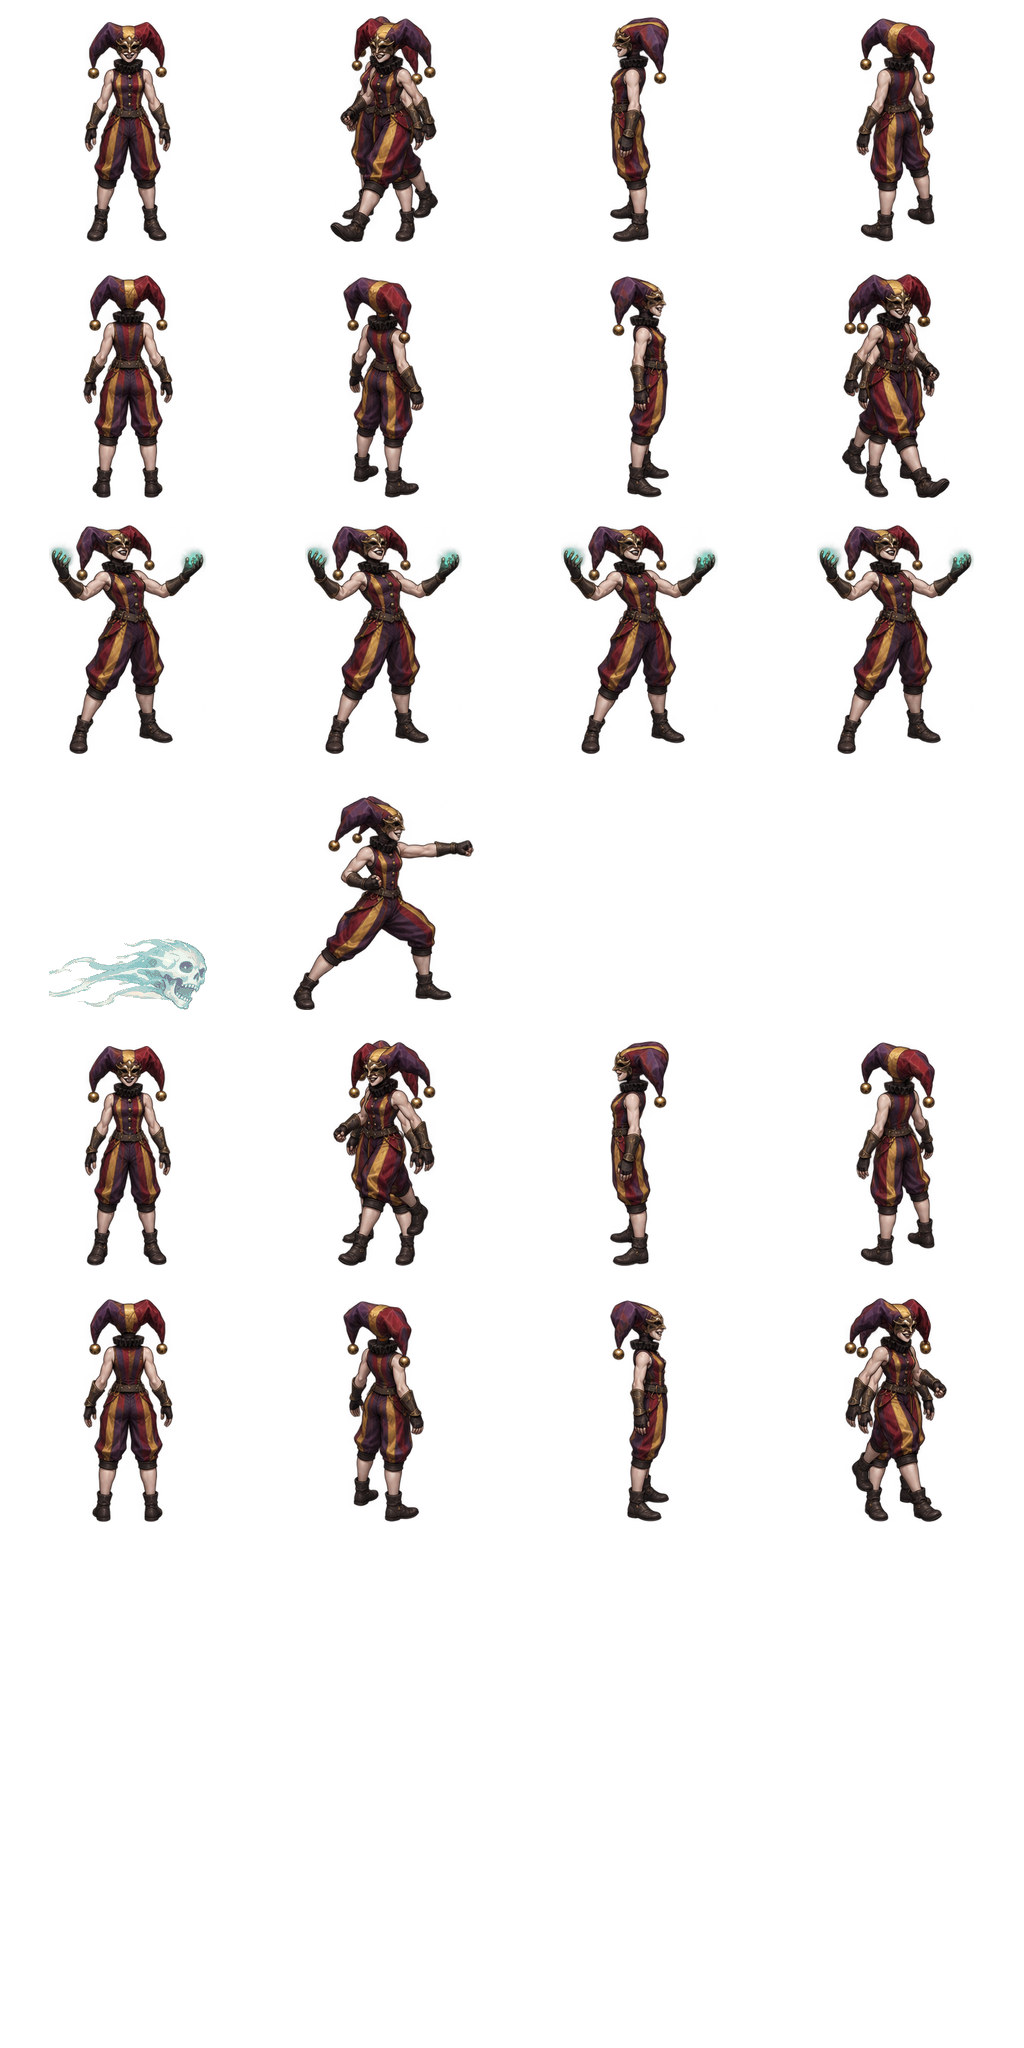
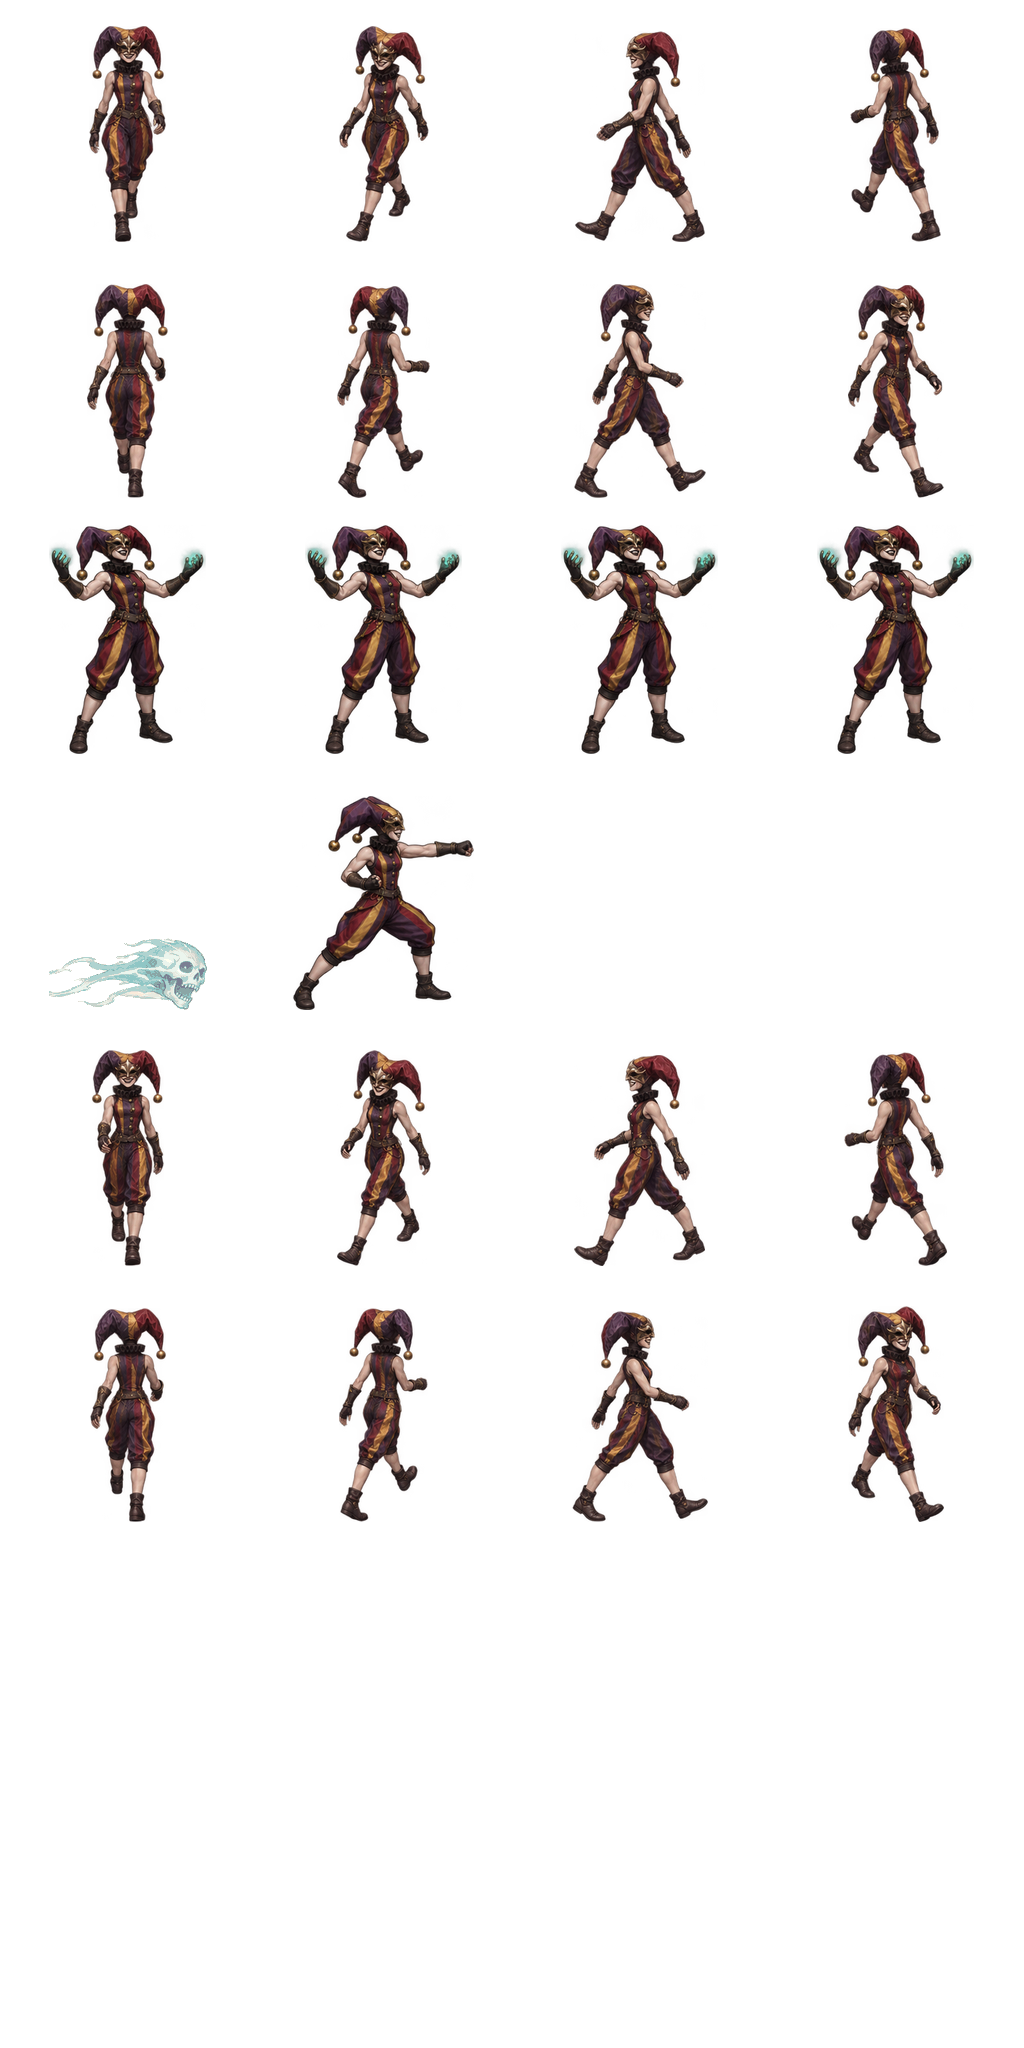
Fix overlapping Arlequina frames and animate walking in eight directions

diff --git a/tools/prepare_arlequina.py b/tools/prepare_arlequina.py
@@ -1,6 +1,6 @@
 """Repack the approved preview into Unity's 256px cell contract. Requires Pillow."""
 from pathlib import Path
-from PIL import Image, ImageOps
+from PIL import Image
 import uuid
 ROOT=Path(__file__).resolve().parents[1]
 source=Image.open(ROOT/'tools/arlequina-source.png').convert('RGBA')
@@ -21,14 +21,30 @@ for i in range(12):
 order=[0,7,6,5,4,3,2,1]
 idle=Image.new('RGBA',(1024,512))
 spectral=Image.new('RGBA',(1024,2048))
-def put(sheet,index,frame): sheet.alpha_composite(frame,(index%4*256,index//4*256))
+def put(sheet,index,frame):
+    # Replace ALL RGBA pixels, including transparency. Alpha-compositing a new
+    # pose onto an occupied cell leaves the previous legs/arms visible.
+    assert frame.size==(256,256)
+    sheet.paste(frame,(index%4*256,index//4*256))
 for direction,original in enumerate(order):
     put(idle,direction,frames[original])
     put(spectral,direction,frames[original])
     put(spectral,16+direction,frames[original])
-# Two approved diagonal walking poses; other directions use a subtle idle step.
-for index,frame in [(7,frames[8]),(23,frames[9]),(1,ImageOps.mirror(frames[8])),(17,ImageOps.mirror(frames[9]))]:
-    put(spectral,index,frame)
+# Two contact poses for every direction from the dedicated walking sheet.
+walk=Image.open(ROOT/'tools/arlequina-walk-source.png').convert('RGBA')
+for direction in range(8):
+    for phase in range(2):
+        i=direction*2+phase
+        x0,x1=round(i%4*walk.width/4),round((i%4+1)*walk.width/4)
+        y0,y1=round(i//4*walk.height/4),round((i//4+1)*walk.height/4)
+        cell=walk.crop((x0,y0,x1,y1))
+        bbox=cell.getchannel('A').point(lambda a:255 if a>24 else 0).getbbox()
+        assert bbox is not None
+        crop=cell.crop(bbox)
+        crop=crop.resize((round(crop.width*.70),round(crop.height*.70)),Image.Resampling.LANCZOS)
+        frame=Image.new('RGBA',(256,256))
+        frame.alpha_composite(crop,((256-crop.width)//2,242-crop.height))
+        put(spectral,direction+phase*16,frame)
 for i in range(8,12): put(spectral,i,frames[11])
 # Keep the existing projectile art/UV region independently of the character.
 legacy=Image.open(ROOT/'unity/Assets/Resources/Heroine/spectral.png').convert('RGBA')

diff --git a/tests/check_arlequina_atlas.py b/tests/check_arlequina_atlas.py
@@ -1,0 +1,26 @@
+"""Pixel regression checks for sprite replacement; run with Pillow installed."""
+import runpy
+from pathlib import Path
+from PIL import Image, ImageChops
+root=Path(__file__).resolve().parents[1]
+packer=runpy.run_path(str(root/'tools/prepare_arlequina.py'))
+# A new transparent pose must erase the old silhouette, not blend over it.
+atlas=Image.new('RGBA',(1024,512),(255,0,0,255))
+pose=Image.new('RGBA',(256,256))
+pose.putpixel((128,128),(0,255,0,255))
+packer['put'](atlas,5,pose)
+assert atlas.crop((256,256,512,512)).tobytes()==pose.tobytes()
+assert atlas.getpixel((0,0))==(255,0,0,255), 'Adjacent cell changed'
+folder=root/'unity/Assets/Resources/Characters/Arlequina'
+idle=Image.open(folder/'idle.png').convert('RGBA')
+walk=Image.open(folder/'spectral.png').convert('RGBA')
+def cell(sheet,i):
+ return sheet.crop((i%4*256,i//4*256,i%4*256+256,i//4*256+256))
+for direction in range(8):
+ a,b=cell(walk,direction),cell(walk,16+direction)
+ assert a.tobytes()!=b.tobytes(), ('identical strides',direction)
+ for frame in (a,b):
+  assert frame.tobytes()!=cell(idle,direction).tobytes(), ('idle used as contact',direction)
+  box=frame.getchannel('A').point(lambda v:255 if v>24 else 0).getbbox()
+  assert box and box[0]>0 and box[1]>0 and box[2]<256 and box[3]<=242,(direction,box)
+print('Arlequina: full RGBA replacement, cell isolation and 8 walking pairs OK')

diff --git a/unity/Assets/Scripts/NecroCharacterAnimation.cs b/unity/Assets/Scripts/NecroCharacterAnimation.cs
@@ -148,7 +148,10 @@ namespace Necromancer
                     // Keep asymmetric costume panels stable; do not mirror an
                     // entire directional pose halfway through the walk cycle.
                     flip=false;
-                    frame=walkDirection+(phase%2==1?16:0);
+                    // Alternate contact and passing poses in all eight directions.
+                    // Each cell is a replacement, never an overlay of two bodies.
+                    frame=phase==0?walkDirection:
+                        phase==2?16+walkDirection:24+walkDirection;
                 }
             }
             witchArtRenderer.sprite=heroSprites[frame];

diff --git a/docs/SELECAO_PERSONAGENS.md b/docs/SELECAO_PERSONAGENS.md
@@ -62,12 +62,17 @@ A arte aprovada está em `tools/arlequina-source.png`; execute
 `python tools/prepare_arlequina.py` (Pillow) para reproduzir os atlas. O empacotador
 mantém transparência e reutiliza somente a célula do projétil da necromante.
 
-Limites desta versão para teste: oito poses paradas, dois passos diagonais,
-movimento vertical sutil nas demais direções, soco lateral espelhado à esquerda
-(com investida direcional nos outros ângulos), e uma pose de invocação usada
-nas fases do ritual. Ainda não é uma animação completa desenhada quadro a quadro.
-O sinalizador `previewMotion` mantém os painéis assimétricos da roupa estáveis
-na caminhada e habilita o soco na célula 13 sem alterar a animação da necromante.
+Caminhada corrigida: duas poses de contato para cada uma das oito direções,
+intercaladas com a pose neutra em um ciclo de quatro fases. A nova fonte é
+`tools/arlequina-walk-source.png`. O empacotador substitui todos os pixels RGBA
+nas células ocupadas; compor transparência sobre uma pose anterior causava as
+pernas duplicadas. O soco lateral e a pose de invocação continuam simplificados.
+A necromante original mantém seu ciclo existente.
+
+Validação adicional: `python tests/check_arlequina_atlas.py` (Pillow) testa
+substituição completa de RGBA, isolamento de células, margens e existência de
+passos diferentes em todas as direções. A conferência visual dos quadros é feita
+fora do Unity; fluidez e escala no aparelho ainda precisam de teste na compilação.
 
 Na próxima compilação, testar cada personagem, reabrir para conferir a escolha,
 andar nas oito direções, atacar dos dois lados, erguer um servo e confirmar que
